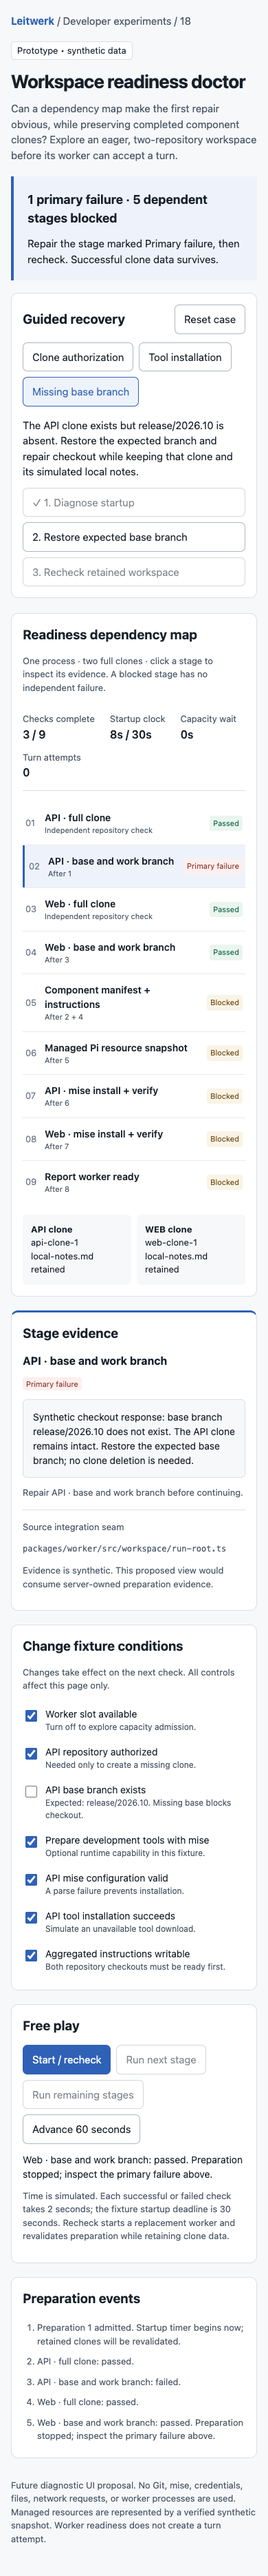
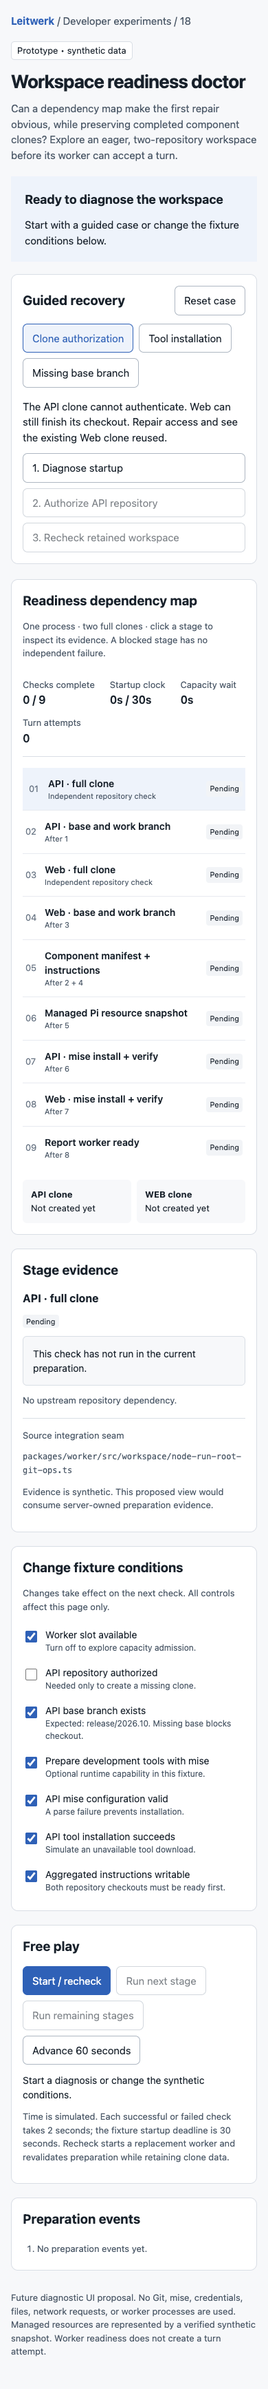
fix(prototype): simplify readiness evidence styling

diff --git a/tools/prototypes/18-workspace-doctor/index.html b/tools/prototypes/18-workspace-doctor/index.html
@@ -4,7 +4,7 @@
 <meta charset="utf-8"><meta name="viewport" content="width=device-width, initial-scale=1">
 <title>Workspace readiness doctor · Leitwerk prototype</title>
 <style>
-:root{font-family:ui-sans-serif,system-ui,sans-serif;color:#18212b;background:#f7f8fa;font-size:15px;line-height:1.5;--border:#d9dee5;--blue:#2f61b7;--muted:#4c5968}*{box-sizing:border-box}body{margin:0}button,input{font:inherit}button{border:1px solid #aeb7c2;border-radius:7px;background:white;color:#18212b;padding:9px 13px;cursor:pointer;min-height:42px}button:hover{background:#f2f4f7}button:focus-visible,input:focus-visible{outline:3px solid #2f61b7;outline-offset:3px}button:disabled{opacity:.55;cursor:default}.primary{background:var(--blue);color:white;border-color:var(--blue)}.primary:hover{background:#254e95}.shell{max-width:1230px;margin:auto;padding:28px}.brand{color:var(--muted);margin:0 0 22px}.brand strong{color:var(--blue)}h1{font-size:30px;letter-spacing:-.7px;line-height:1.2;margin:0 0 12px}h2{font-size:19px;margin:0 0 14px}h3{font-size:16px;margin:0 0 9px}p{margin:0 0 12px}.intro{max-width:860px;color:var(--muted)}.label{display:inline-block;font-size:13px;border:1px solid var(--border);border-radius:5px;padding:3px 8px;margin-bottom:15px;background:white}.layout{display:grid;grid-template-columns:minmax(0,1.65fr) minmax(300px,1fr);gap:22px;margin-top:22px}.panel{border:1px solid var(--border);background:white;border-radius:10px;padding:22px;margin-bottom:20px}.summary{padding:20px;border-left:4px solid var(--blue);background:#eef3fb;margin:22px 0 18px}.summary p:last-child{margin-bottom:0}.summary strong{font-size:18px}.facts{display:flex;flex-wrap:wrap;gap:8px 28px;padding:14px 0;border-bottom:1px solid var(--border);margin-bottom:16px}.facts span{display:block;font-size:13px;color:var(--muted)}.facts b{font-size:16px;font-weight:600}.actions{display:flex;flex-wrap:wrap;gap:8px}.hint{font-size:13px;color:var(--muted)}.stage{display:grid;grid-template-columns:28px 1fr auto;gap:10px;align-items:center;text-align:left;border:0;border-bottom:1px solid #e7eaf0;border-radius:0;width:100%;padding:12px 4px;background:white}.stage:last-child{border-bottom:0}.stage.active{background:#eef3fb;box-shadow:inset 3px 0 var(--blue);padding-left:9px}.stage .number{color:#687483;font-size:13px}.stage strong{display:block;font-size:14px;font-weight:600}.stage small{display:block;color:var(--muted);font-size:12px}.status{font-size:12px;border-radius:4px;padding:3px 7px;background:#f2f4f7;white-space:nowrap}.passed{color:#116344;background:#eaf5ef}.failed{color:#892f29;background:#fcefed}.blocked{color:#74531e;background:#faf4e7}.available{color:#244d91;background:#eaf0fa}.inspector{border-top:3px solid var(--blue)}.evidence{overflow-wrap:anywhere;background:#f7f8fa;padding:14px;border:1px solid var(--border);border-radius:6px;font-size:14px}.source{font:12px/1.6 ui-monospace,monospace;overflow-wrap:anywhere;color:var(--muted)}.controls label{display:flex;gap:9px;align-items:flex-start;padding:8px 0}.controls input{margin-top:5px;width:17px;height:17px;accent-color:var(--blue);flex-shrink:0}.controls label span{font-size:14px}.controls label small{display:block;font-size:12px;color:var(--muted)}.tabs{display:flex;gap:8px;flex-wrap:wrap;margin-bottom:16px}.tabs button[aria-pressed=true]{color:var(--blue);background:#eef3fb;border-color:var(--blue)}.steps{display:flex;flex-wrap:wrap;gap:8px;margin-top:12px}.log{padding-left:21px;margin:0}.log li{padding:5px 0;color:var(--muted);font-size:13px}.footer{color:var(--muted);font-size:13px;margin:10px 0 25px}.retained{display:grid;grid-template-columns:1fr 1fr;gap:12px;margin:16px 0 0}.retained div{background:#f7f8fa;padding:12px;border-radius:6px;font-size:13px}.retained strong{display:block}.divider{border-top:1px solid var(--border);margin:15px 0}.live{min-height:42px;margin-top:12px;font-size:14px}.flex-title{display:flex;justify-content:space-between;gap:12px;align-items:center;margin-bottom:12px}.flex-title h2{margin:0}@media(max-width:760px){.shell{padding:19px 16px}.layout{grid-template-columns:1fr;gap:0}.panel{padding:16px}.brand{margin-bottom:18px}h1{font-size:27px}.stage{grid-template-columns:22px minmax(0,1fr) auto;gap:6px}.stage small{font-size:11px}.status{font-size:11px;padding:3px 5px}.facts{gap:12px 22px}.summary{margin-top:20px}.retained{gap:8px}.steps{flex-direction:column}.steps button{text-align:left}.layout>section,.layout>aside{display:contents}.map-panel{order:1}.inspector{order:2}.controls{order:3}.free-panel{order:4}.events-panel{order:5}}
+:root{font-family:ui-sans-serif,system-ui,sans-serif;color:#18212b;background:#f7f8fa;font-size:15px;line-height:1.5;--border:#d9dee5;--blue:#2f61b7;--muted:#4c5968}*{box-sizing:border-box}body{margin:0}button,input{font:inherit}button{border:1px solid #aeb7c2;border-radius:7px;background:white;color:#18212b;padding:9px 13px;cursor:pointer;min-height:42px}button:hover{background:#f2f4f7}button:focus-visible,input:focus-visible{outline:3px solid #2f61b7;outline-offset:3px}button:disabled{opacity:.55;cursor:default}.primary{background:var(--blue);color:white;border-color:var(--blue)}.primary:hover{background:#254e95}.shell{max-width:1230px;margin:auto;padding:28px}.brand{color:var(--muted);margin:0 0 22px}.brand strong{color:var(--blue)}h1{font-size:30px;letter-spacing:-.7px;line-height:1.2;margin:0 0 12px}h2{font-size:19px;margin:0 0 14px}h3{font-size:16px;margin:0 0 9px}p{margin:0 0 12px}.intro{max-width:860px;color:var(--muted)}.label{display:inline-block;font-size:13px;border:1px solid var(--border);border-radius:5px;padding:3px 8px;margin-bottom:15px;background:white}.layout{display:grid;grid-template-columns:minmax(0,1.65fr) minmax(300px,1fr);gap:22px;margin-top:22px}.panel{border:1px solid var(--border);background:white;border-radius:10px;padding:22px;margin-bottom:20px}.summary{padding:20px;background:#eef3fb;margin:22px 0 18px}.summary p:last-child{margin-bottom:0}.summary strong{font-size:18px}.facts{display:flex;flex-wrap:wrap;gap:8px 28px;padding:14px 0;border-bottom:1px solid var(--border);margin-bottom:16px}.facts span{display:block;font-size:13px;color:var(--muted)}.facts b{font-size:16px;font-weight:600}.actions{display:flex;flex-wrap:wrap;gap:8px}.hint{font-size:13px;color:var(--muted)}.stage{display:grid;grid-template-columns:28px 1fr auto;gap:10px;align-items:center;text-align:left;border:0;border-bottom:1px solid #e7eaf0;border-radius:0;width:100%;padding:12px 4px;background:white}.stage:last-child{border-bottom:0}.stage.active{background:#eef3fb;padding-left:9px}.stage .number{color:#687483;font-size:13px}.stage strong{display:block;font-size:14px;font-weight:600}.stage small{display:block;color:var(--muted);font-size:12px}.status{font-size:12px;border-radius:4px;padding:3px 7px;background:#f2f4f7;white-space:nowrap}.passed{color:#116344;background:#eaf5ef}.failed{color:#892f29;background:#fcefed}.blocked{color:#74531e;background:#faf4e7}.available{color:#244d91;background:#eaf0fa}.evidence{overflow-wrap:anywhere;background:#f7f8fa;padding:14px;border:1px solid var(--border);border-radius:6px;font-size:14px}.source{font:12px/1.6 ui-monospace,monospace;overflow-wrap:anywhere;color:var(--muted)}.controls label{display:flex;gap:9px;align-items:flex-start;padding:8px 0}.controls input{margin-top:5px;width:17px;height:17px;accent-color:var(--blue);flex-shrink:0}.controls label span{font-size:14px}.controls label small{display:block;font-size:12px;color:var(--muted)}.tabs{display:flex;gap:8px;flex-wrap:wrap;margin-bottom:16px}.tabs button[aria-pressed=true]{color:var(--blue);background:#eef3fb;border-color:var(--blue)}.steps{display:flex;flex-wrap:wrap;gap:8px;margin-top:12px}.log{padding-left:21px;margin:0}.log li{padding:5px 0;color:var(--muted);font-size:13px}.footer{color:var(--muted);font-size:13px;margin:10px 0 25px}.retained{display:grid;grid-template-columns:1fr 1fr;gap:12px;margin:16px 0 0}.retained div{background:#f7f8fa;padding:12px;border-radius:6px;font-size:13px}.retained strong{display:block}.divider{border-top:1px solid var(--border);margin:15px 0}.live{min-height:42px;margin-top:12px;font-size:14px}.flex-title{display:flex;justify-content:space-between;gap:12px;align-items:center;margin-bottom:12px}.flex-title h2{margin:0}@media(max-width:760px){.shell{padding:19px 16px}.layout{grid-template-columns:1fr;gap:0}.panel{padding:16px}.brand{margin-bottom:18px}h1{font-size:27px}.stage{grid-template-columns:22px minmax(0,1fr) auto;gap:6px}.stage small{font-size:11px}.status{font-size:11px;padding:3px 5px}.facts{gap:12px 22px}.summary{margin-top:20px}.retained{gap:8px}.steps{flex-direction:column}.steps button{text-align:left}.layout>section,.layout>aside{display:contents}.map-panel{order:1}.inspector{order:2}.controls{order:3}.free-panel{order:4}.events-panel{order:5}}
 </style>
 </head>
 <body>

diff --git a/tools/prototypes/18-workspace-doctor/README.md b/tools/prototypes/18-workspace-doctor/README.md
@@ -41,6 +41,7 @@ The fixture models one process with two full clones. It has no turn acceptance a
 - Browser checks confirmed capacity waiting does not start the startup clock, admitted timeout preserves the clone, and a replacement reaches readiness.
 - Browser checks confirmed malformed mise configuration produces actionable evidence and disabling optional mise preparation allows readiness with explicit skipped stages.
 - Desktop (1440 px) and mobile (390 px) screenshots were captured and visually inspected. The mobile page has no horizontal overflow; stage evidence follows the dependency map.
+- Visual review removed accent stripes from the summary, selected stage, and inspector. Refreshed desktop/mobile screenshots were inspected independently and the prior findings were resolved.
 
 These focused checks cover the standalone experiment. Application full validation was not run because application code, dependencies, and runtime/build configuration are unchanged.
 
